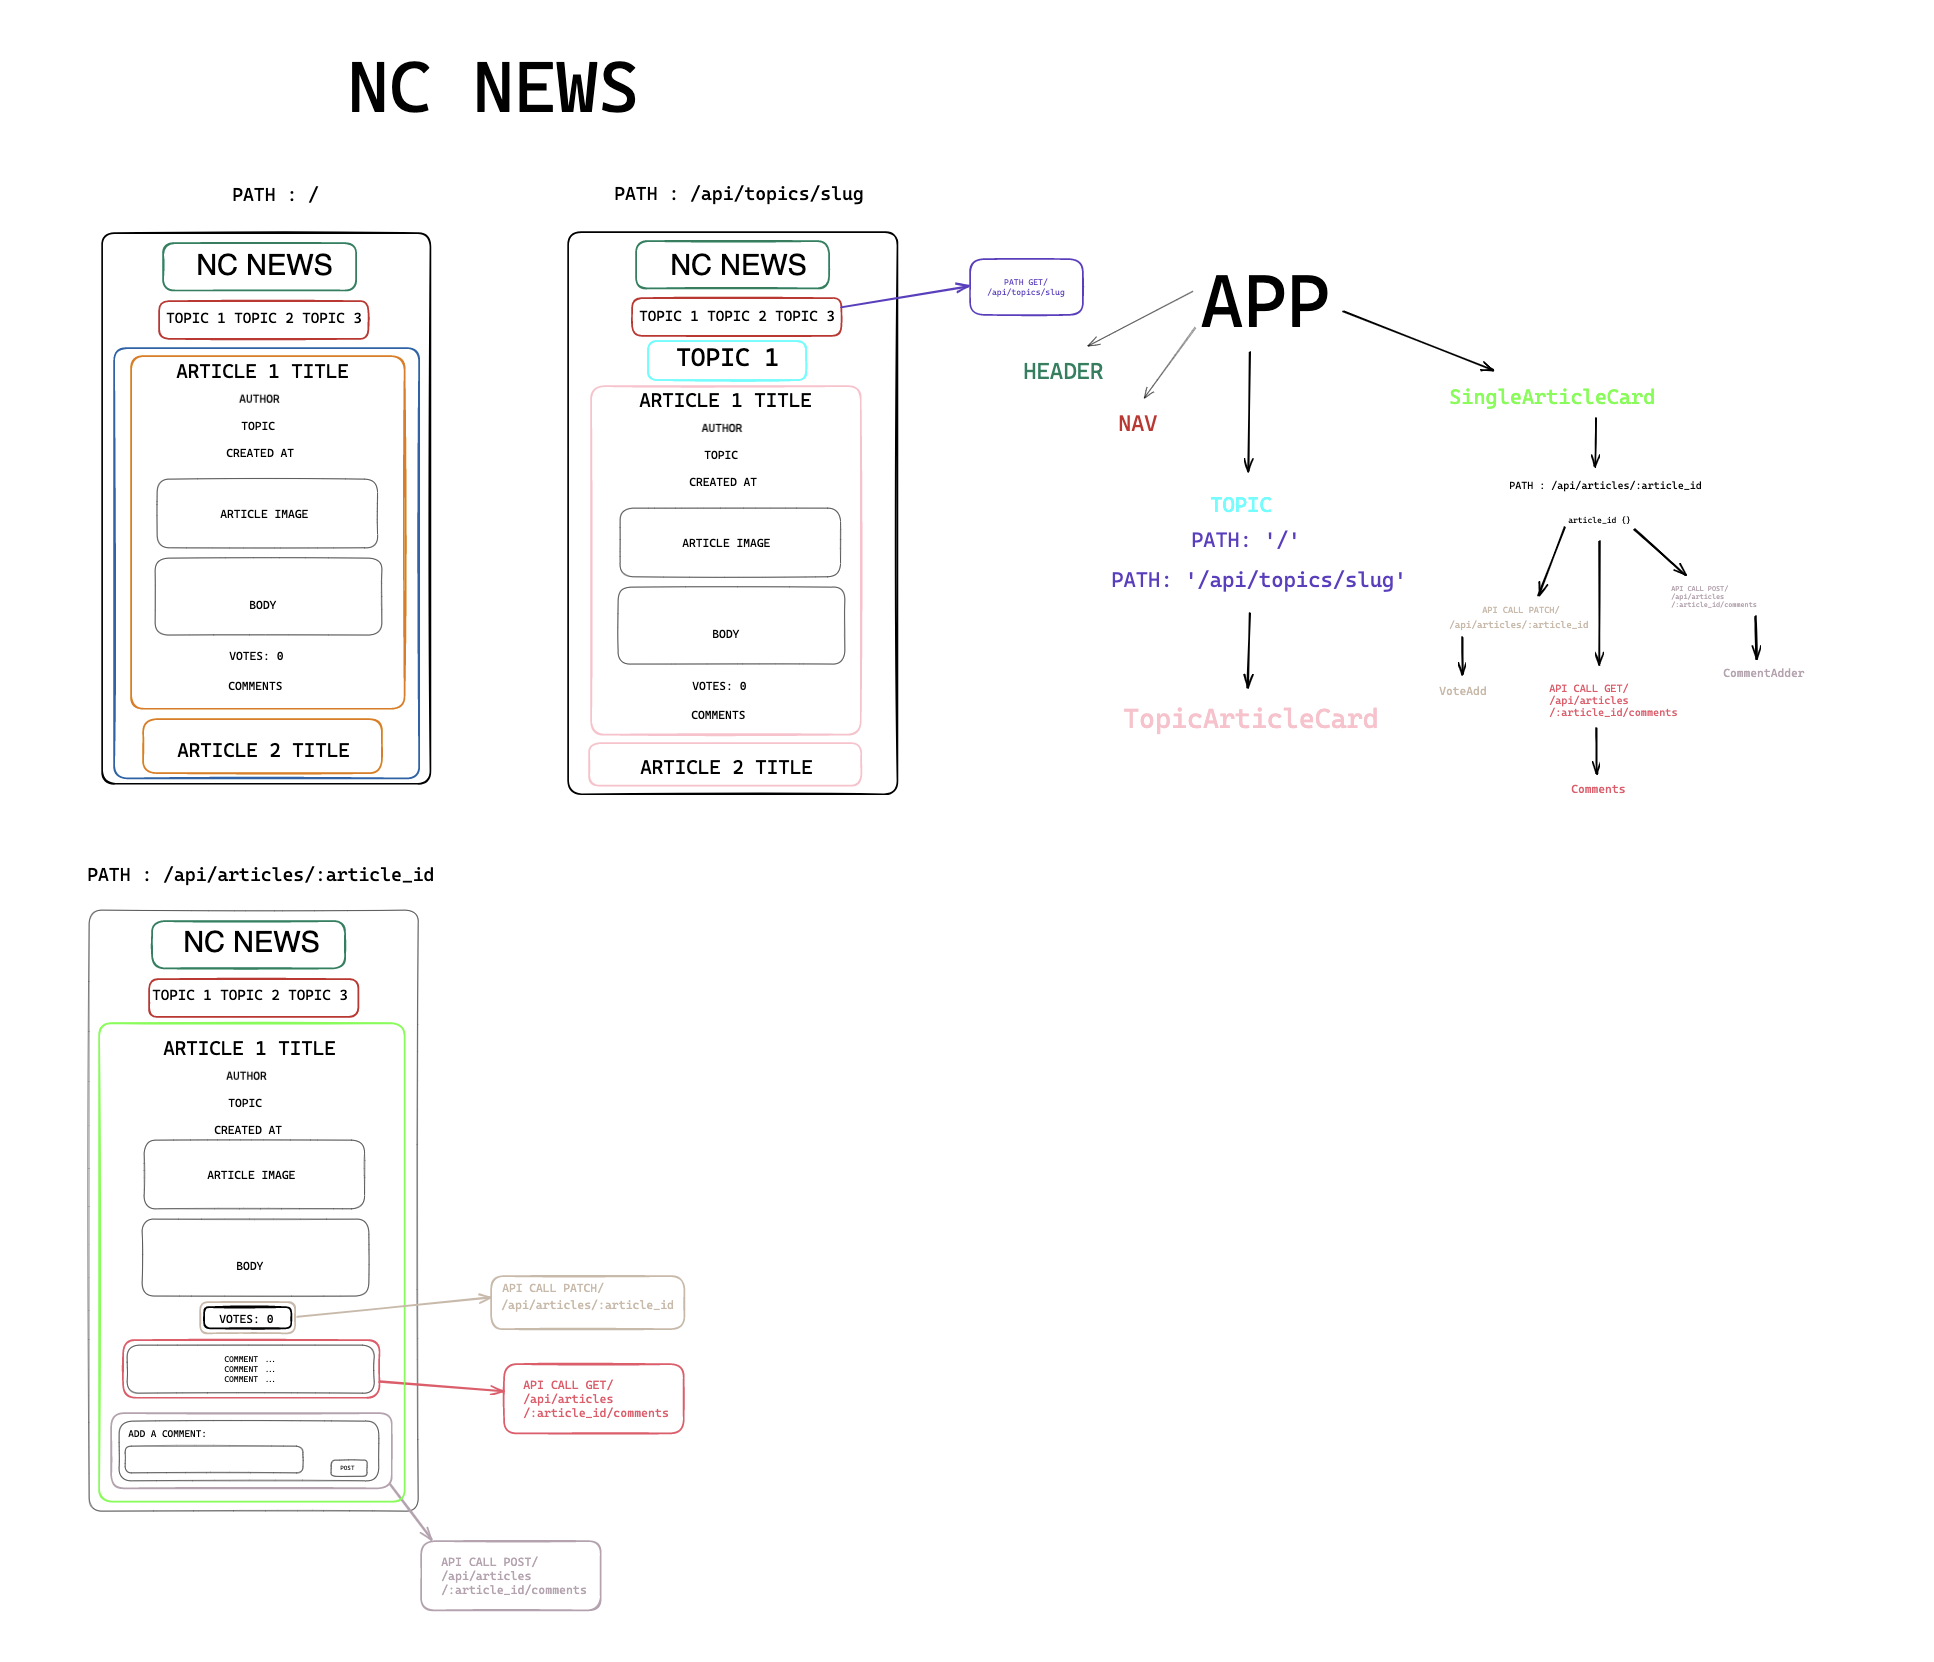
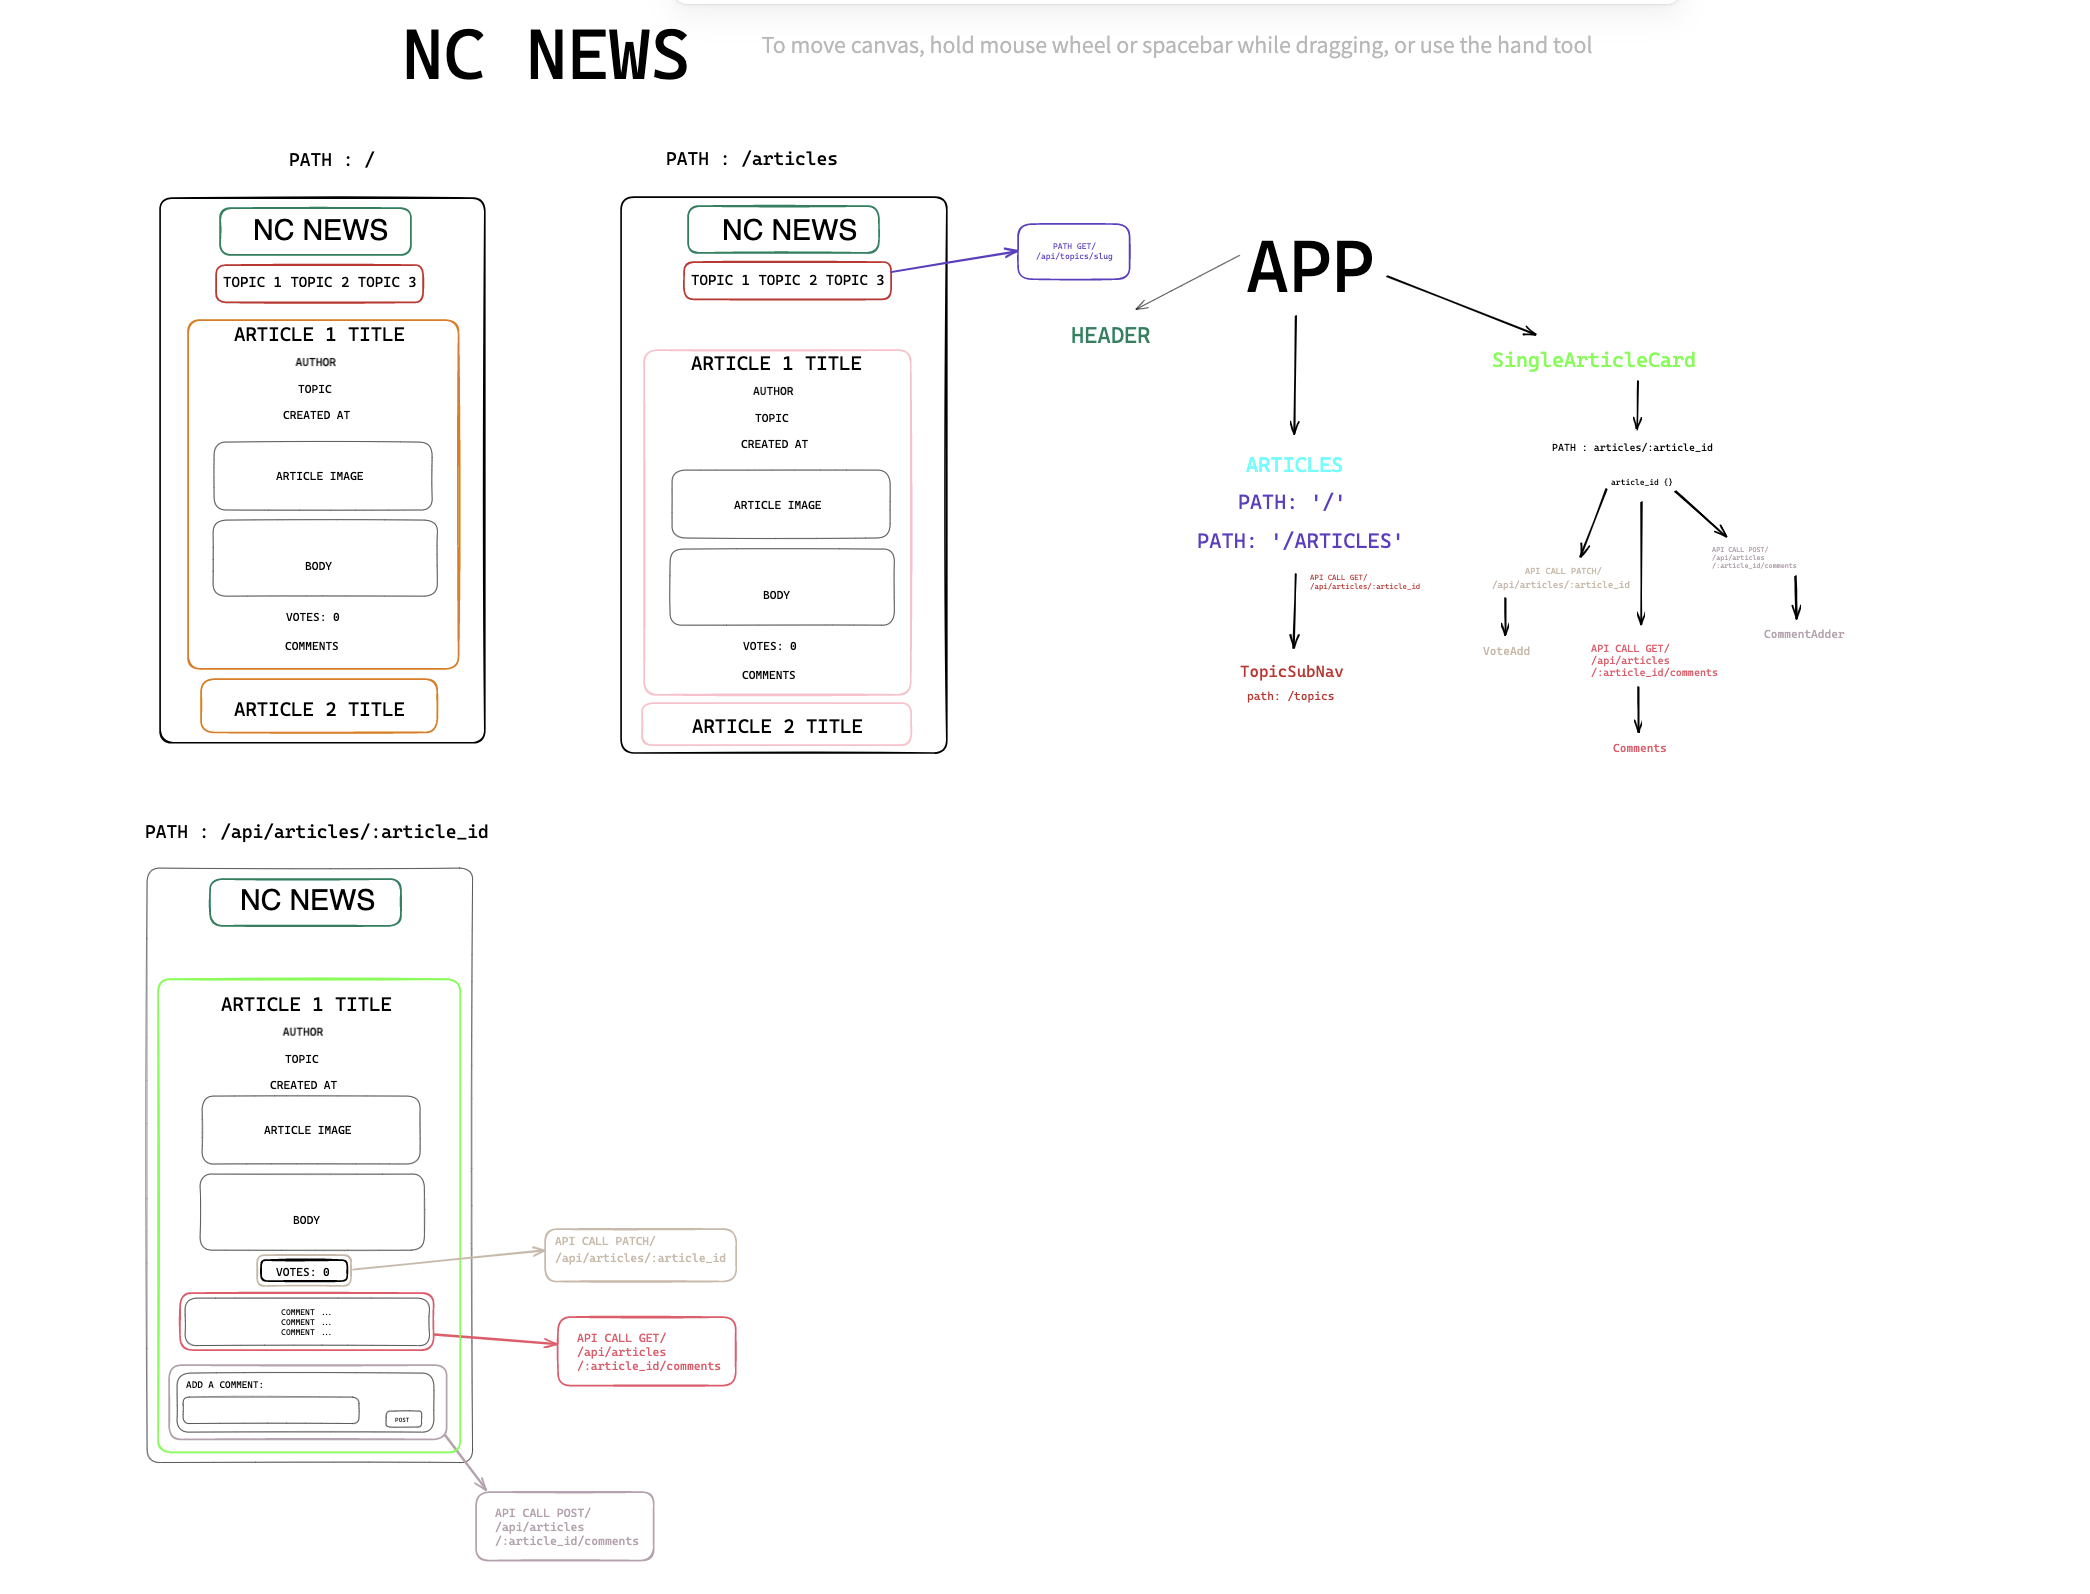
View a list of all articles on the home page

diff --git a/fe-review-week-project/src/Components/ArticlesList.jsx b/fe-review-week-project/src/Components/ArticlesList.jsx
@@ -1,0 +1,34 @@
+import { useState, useEffect } from "react";
+import { getArticles } from '../utils/api';
+
+function ArticlesList() {
+   
+    const [articles, setArticles] = useState([])
+
+    useEffect(() => {
+        getArticles().then((articlesData) => {
+          setArticles(articlesData);
+        });
+      }, []);
+    
+      return (
+        <ul className="articles-list">
+          {articles.map((article) => {
+            return (
+                <li>
+                <h2 key={article.article_id}>{article.title}</h2>
+                <p>Author: {article.author}</p>
+                <p>Topic: {article.topic}</p>
+                <p>Date: {article.created_at}</p>
+                <img src={article.article_img_url} alt="article-img" />
+                <p>{article.body}</p>
+                <p>Votes: {article.votes}</p>
+                <p>{article.comments}</p>
+                </li>
+            );
+          })}
+        </ul>
+      );
+    }
+
+    export default ArticlesList;

diff --git a/fe-review-week-project/src/App.css b/fe-review-week-project/src/App.css
@@ -1,38 +1,17 @@
 .App {
-  text-align: center;
+	text-align: center;
+	background-color: azure;
 }
 
-.App-logo {
-  height: 40vmin;
-  pointer-events: none;
+.articles-list {
+  text-decoration: none;
 }
 
-@media (prefers-reduced-motion: no-preference) {
-  .App-logo {
-    animation: App-logo-spin infinite 20s linear;
-  }
+.header a{
+	text-decoration: none;
+	color: black;
 }
 
-.App-header {
-  background-color: #282c34;
-  min-height: 100vh;
-  display: flex;
-  flex-direction: column;
-  align-items: center;
-  justify-content: center;
-  font-size: calc(10px + 2vmin);
-  color: white;
-}
-
-.App-link {
-  color: #61dafb;
-}
-
-@keyframes App-logo-spin {
-  from {
-    transform: rotate(0deg);
-  }
-  to {
-    transform: rotate(360deg);
-  }
+h1 {
+	font-size: 3rem;
 }

diff --git a/fe-review-week-project/src/App.js b/fe-review-week-project/src/App.js
@@ -1,22 +1,12 @@
 import './App.css';
+import ArticlesList from './Components/ArticlesList';
+import Header from './Components/Header';
 
 function App() {
   return (
     <div className="App">
-      <header className="App-header">
-        <img src={logo} className="App-logo" alt="logo" />
-        <p>
-          Edit <code>src/App.js</code> and save to reload.
-        </p>
-        <a
-          className="App-link"
-          href="https://reactjs.org"
-          target="_blank"
-          rel="noopener noreferrer"
-        >
-          Learn React
-        </a>
-      </header>
+      <Header />
+      <ArticlesList />
     </div>
   );
 }

diff --git a/fe-review-week-project/src/utils/api.js b/fe-review-week-project/src/utils/api.js
@@ -1,0 +1,12 @@
+import axios from 'axios';
+
+const articlesApi = axios.create({
+    baseURL: 'https://sorans-backend-project.onrender.com/api'
+});
+
+export const getArticles = () => {
+    return articlesApi.get(`/articles`)
+        .then(({ data }) => {
+            return data.articles;
+        });
+};

diff --git a/fe-review-week-project/src/Components/Header.jsx b/fe-review-week-project/src/Components/Header.jsx
@@ -1,0 +1,9 @@
+function Header () {
+    return ( 
+        <header className="header">
+            <h1>NC NEWS</h1>
+        </header>
+     );
+}
+
+export default Header;
